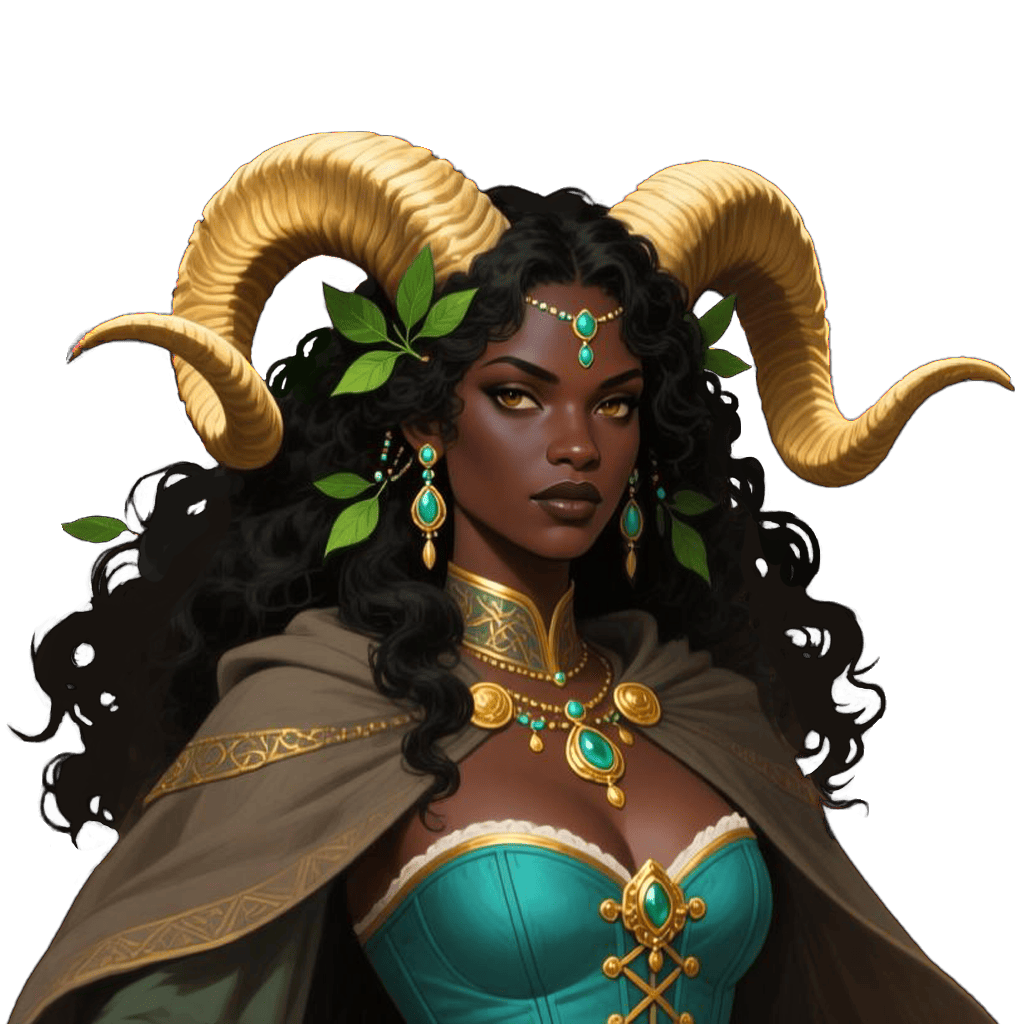
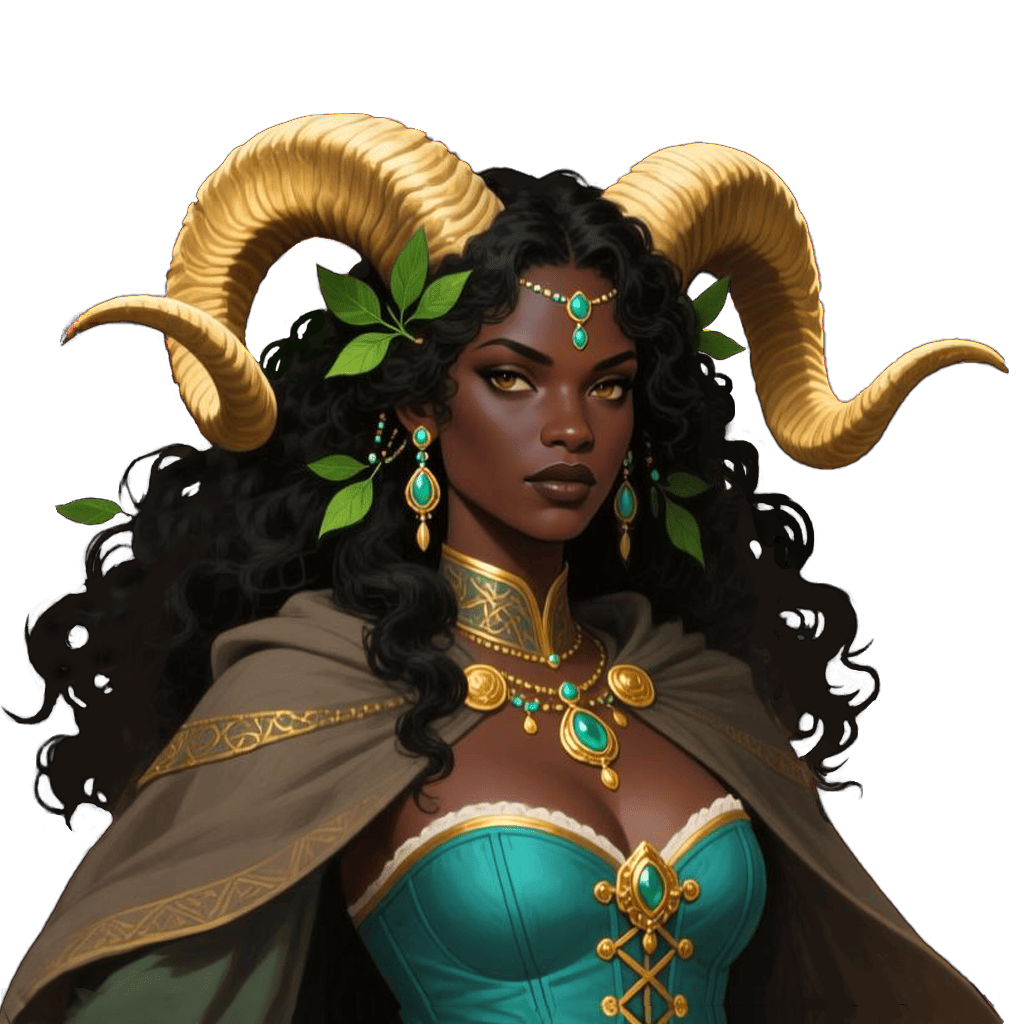
bug fix 28.10.2025

Changed region(s): [[0.0, 0.0938, 1.0, 1.0], [0.7188, 0.5312, 0.75, 0.5625], [0.375, 0.5625, 0.4062, 0.5938]]

diff --git a/public/js/enemy.js b/public/js/enemy.js
@@ -695,9 +695,7 @@ function enemy(_e) {
 						_dir = __right;
 					else if (_diff < -_tol)
 						_dir = __left;
-					if(this.direction !== _dir){
-						this.direction = _dir;
-					}
+					this.setDirection(_dir, 1);
 				}
 			}
 			return;
@@ -842,8 +840,7 @@ function enemy(_e) {
 							else {
 								if(!this.ranged){
 									if(isObjectsVerticallyInSameOrder(this, _enemy)){
-										if(this.direction !== _dir)
-											this.direction = _dir;
+										this.setDirection(_dir, 1);
 										if(this.yPosition > _enemy.yPosition && this.moveDirection !== 'down')
 											this.moveDirection = 'down';
 										else if(this.yPosition < _enemy.yPosition && this.moveDirection !== 'up')
@@ -872,7 +869,8 @@ function enemy(_e) {
 					}
 					else {
 						if (!this.puppetMode && (this.animationFinished || this.animation === 'run' || this.animation === 'idle')) {
-							if ((this.yPosition !== _enm.yPosition) && this.yPosition <= getGroundHeight() && _enm.yPosition <= getGroundHeight() && this.animations.walk) {
+							const _touch = isObjectsInTouch(this, _enm)?.touch;
+							if (!_touch && (this.yPosition !== _enm.yPosition) && this.yPosition <= getGroundHeight() && _enm.yPosition <= getGroundHeight() && this.animations.walk) {
 								if (this.animation == 'run' && this.frame < this.animations.walk.frames.length - 1) {
 									const _oldStart = this.start;
 									const _oldFrame = this.frame;
@@ -947,9 +945,7 @@ function enemy(_e) {
 						this.autoStepXRate = this.autoStepYRate = undefined;
 				}
 				else if (!this.chargimg && this.getCurrentFrame()?.directionChangeEnabled)
-					{
-						this.direction = _dir;
-					}
+					this.setDirection(_dir, 1);
 				else if(this.animationFinished)
 					if (!this.animateAutoAnimation(4,_enemy?.enemy,_isEnemyClose)) {
 						this.upcomingAnimation = undefined;
@@ -966,8 +962,8 @@ function enemy(_e) {
 						_enemy = _newEnemy;
 				}
 				if (!this.still || (this.still && _isEnemyClose) || (this.still && this.ranged && _enemy?.enemy)) {
-					this.turned = true;
-					this.direction = this.moveDirection = _dir;
+					this.setDirection(_dir);
+					this.moveDirection = _dir;
 					
 					this.pickRandomAttack(null, null, 1);
 					if (this.upcomingAnimation) {
@@ -997,6 +993,18 @@ function enemy(_e) {
 		// if(!_enemy?.enemy && !this.isDead() && this.animation !== 'idle')
 		// 	this.animate('idle', 1, null, 2);
 		this.pickRandomAttack(null, null, 1);
+	}
+	this.setDirection = function(_dir, _force) {
+		if(this.enemy && this.lastTurnTime > (_gameTick - 500))
+			return;
+		if(this.direction === _dir)
+			return;
+		if(this.enemy)
+			this.lastTurnTime = _gameTick;
+		this.direction = _dir;
+		if(!_force && this.animation !== 'idle' && this.animation !== 'run' && this.animation !== 'walk')
+			return;
+		this.turned = true;
 	}
 	this.animateAutoAnimation = function (_q, _c, _touch) {
 		if(this.animation === 'roll' && !this.animationFinished)
@@ -1153,8 +1161,8 @@ function enemy(_e) {
 		//this.relatedObjects?.filter(x => x.bind === this.animation && !x.remove)?.forEach(x => x.remove = true);
 		if(this.keyboard) {
 			const _dirName = this.getKeyboardXMove();
-			if(_dirName && _dirName !== this.direction)
-				this.direction = _dirName;
+			if(_dirName)
+				this.setDirection(_dirName, 1);
 		}
 		if(_anima?.after)
 			_anima.after(this);
@@ -1356,11 +1364,9 @@ function enemy(_e) {
 		if(this.fatique < this.maxFatique)
 		{
 			this.fatique = this.maxFatique;
-			if (this.hasFatiqueBar) {
-				const _bar = document.querySelector('#defbar-hb-' + this.key);
-				if (_bar)
-					_bar.style.background = 'linear-gradient(90deg, #9D00FF ' + this.fatique + '%, transparent ' + ((this.fatique / this.maxFatique) * 100) + '%)';
-			}
+			const _bar = document.querySelector('#char-' + this.key + ' .defbar-value');
+			if (_bar)
+				_bar.style.transform = 'scaleX(' + (this.fatique / this.maxFatique) + ')';
 		}
 	}
 	this.getRandom = function(_pos) {
@@ -1386,6 +1392,7 @@ function enemy(_e) {
 					x.gradeLeft = x.grade - 1;
 				if(x.health < x.MAXHP)
 					x.setHealth(x.MAXHP);
+				x.resetFatique();
 			});
 			this.immobilize = this.oldProps.immobilize;
 			delete this.deadDramaStart;
@@ -3240,10 +3247,10 @@ function enemy(_e) {
 
 			if(this.getRangeBetween(_enemy) > _range)
 				continue;
-			if(this.ORIGINLEFT > _enemy.ORIGINLEFT && _enemy.direction !== 'right')
-				_enemy.direction = 'right';
-			else if(this.ORIGINLEFT <= _enemy.ORIGINLEFT && _enemy.direction !== 'left')
-				_enemy.direction = 'left';
+			if(this.ORIGINLEFT > _enemy.ORIGINLEFT && _enemy.direction !== __right)
+				_enemy.direction = __right;
+			else if(this.ORIGINLEFT <= _enemy.ORIGINLEFT && _enemy.direction !== __left)
+				_enemy.direction = __left;
 			if(_enemy.animations.knockbackair){
 				_enemy.randomAirCoords(_enemy.animations.knockbackair);
 				_enemy.animate('knockbackair', 1);
@@ -4648,7 +4655,7 @@ function enemy(_e) {
 								_enemy.direction = __right;
 						}
 						if(!this.invulnerable)
-						_enemy.setAutoTarget(this, null, 9);
+							_enemy.setAutoTarget(this, null, 9);
 					}
 				}
 				if (_enemyHurted && !_enemy.isDead())
@@ -5332,9 +5339,9 @@ function enemy(_e) {
 			return;
 		if(_touch && this.yPosition === this.autoTarget.yPosition)
 			return;
-		if(!this.verticalStep)
+		if(!this.verticalStep || _touch)
 			this.verticalStep = this.calculateYStep();
-		if(this.autoStepYRate < 1)
+		if(!_touch && this.autoStepYRate < 1)
 			this.verticalStep *= this.autoStepYRate;
 		const _moveY = this.solidOne ?? _solidity?.moveY;
 		if ((this.moveDirection === 'up' || (_solidity && _moveY === -1)) && _moveY !== 1){
@@ -6970,7 +6977,7 @@ function enemy(_e) {
 			if ((this.direction === __left && _xMove === __right) ||
 				(this.direction === __right && _xMove === __left))
 				this.start = this.frame = 0;
-			this.direction = _xMove;
+			this.setDirection(_xMove, 1);
 			if(!_includeY)
 				this.moveDirection = _xMove;
 			else
@@ -7225,11 +7232,9 @@ function enemy(_e) {
 		}
 		this.fatique -= _dec;
 		_client.setFatique(this);
-		const _bar = this.fatBar ?? document.querySelector('#char-' + this.key + ' .defbar-value');
+		const _bar = document.querySelector('#char-' + this.key + ' .defbar-value');
 		if(_bar)
 			_bar.style.transform = 'scaleX(' + (this.fatique / this.maxFatique) + ')';
-		if(_bar && !this.fatBar)
-			this.fatBar = _bar;
 		PlaySound({ owner: _attacker, key: this.class + 'block' }, 'block');
 		const _gap = MathRound(this.getCurrentFrame().spriteWidth / 2);
 		if(_r < 1)
@@ -7246,9 +7251,8 @@ function enemy(_e) {
 			this.fatique = this.maxFatique;
 		if (!this.enemy) {
 			try {
-				if(!this.fatBar)
-					this.fatBar = document.querySelector((!this.main ? '#char-' + this.key : '#top-nav') + ' .defbar-value');
-				this.fatBar.style.width = ((this.fatique / this.maxFatique) * 100) + '%';
+				const _bar = document.querySelector('#char-' + this.key + ' .defbar-value');
+				_bar.style.transform = 'scaleX(' + (this.fatique / this.maxFatique) + ')';
 			}
 			catch (ex) { }
 			_client.setFatique(this);

diff --git a/public/js/global.js b/public/js/global.js
@@ -27889,7 +27889,6 @@ const canvasAnimations =  {
 	// 	// Efekt başlatıldığında parametreleri sıfırla
 	// 	if (!_params.startTime || _params.finished) {
 	// 		_params.startTime = now;
-	// 		_params.phase = 1;
 	// 		_params.finished = false;
 	// 		_params.sparkLines = []; // Faz 1’deki “ışık çizgileri”
 	// 		_params.particles = [];  // Faz 3’teki “partiküller”
@@ -28066,15 +28065,14 @@ const canvasAnimations =  {
 		// === INIT ===
 		if (!_params.startTime || _params.finished) {
 			_params.startTime = now;
-			_params.phase = 1;
 			_params.finished = false;
 
 			// Pre-allocate & reuse arrays
-			if (!_params.sparkLines) _params.sparkLines = new Array(12);
+			if (!_params.sparkLines) _params.sparkLines = new Array(8);
 			if (!_params.particles) _params.particles = new Array(25);
 			for (let i = 0; i < _params.sparkLines.length; i++) _params.sparkLines[i] = null;
 			for (let i = 0; i < _params.particles.length; i++) _params.particles[i] = null;
-			episode.enemies?.forEach(x => x.fps = 100);
+			episode.enemies?.forEach(x => x.stop = 1);
 			PlaySound({ key: 'chargepower', volume: 1 });
 		}
 
@@ -28097,44 +28095,60 @@ const canvasAnimations =  {
 
 		// === FAZ 1: Spark toplama ===
 		if (elapsed < dur1) {
-			let sparks = _params.sparkLines;
+			// garanti: sparkLines dizisi her zaman tanımlı olur
+			let sparks = _params.sparkLines = _params.sparkLines || [];
 
-			if (!sparks[0]) {
-				const count = sparks.length;
-				const step = TAU / count;
-				for (let i = 0; i < count; i++) {
-					sparks[i] = {
+			// sabit 8 yön
+			const COUNT = 8;
+			if (sparks.length !== COUNT || !sparks[0]) {
+				sparks.length = 0;
+				const step = TAU / COUNT;
+				for (let i = 0; i < COUNT; i++) {
+					sparks.push({
 						angle: step * i,
-						len: (140 + Math.random() * 40) * S // 🔹 biraz daha uzun
-					};
+						len: (140 + Math.random() * 40) * S,
+						curl: (Math.random() * 0.5 - 0.25),
+						offset: Math.random() * TAU
+					});
 				}
 			}
 
 			const prog = elapsed / dur1;
 			ctx.strokeStyle = 'rgb(125,249,255)';
-			ctx.lineWidth = 2 * S;
-			ctx.globalAlpha = 1 - prog * 0.5; // 🔹 yavaşça silinir
+			ctx.lineWidth = 2.5 * S;
+			ctx.globalAlpha = Math.max(0, 1 - prog * 0.6);
 
-			for (const s of sparks) {
-				const cosA = Math.cos(s.angle);
-				const sinA = Math.sin(s.angle);
-				const r = s.len * (1 - prog);
-				const x1 = c.x + cosA * r;
-				const y1 = c.y + sinA * r;
-				const x2 = x1 + cosA * (10 * S);
-				const y2 = y1 + sinA * (10 * S);
+			for (let i = 0; i < sparks.length; i++) {
+				const s = sparks[i];
+				if (!s) continue;
+
+				const shrink = Math.max(0, 1 - prog * 1.1);
+				const len = s.len * shrink;
+
+				const angleBase = s.angle + Math.sin(prog * 6 + s.offset) * s.curl;
+				const cosA = Math.cos(angleBase);
+				const sinA = Math.sin(angleBase);
+
+				const x1 = c.x + cosA * len;
+				const y1 = c.y + sinA * len;
+				const x2 = c.x + cosA * (len - 20 * S);
+				const y2 = c.y + sinA * (len - 20 * S);
+
+				const midX = (x1 + x2) / 2 + sinA * 10 * S;
+				const midY = (y1 + y2) / 2 - cosA * 10 * S;
+
 				ctx.beginPath();
 				ctx.moveTo(x1, y1);
-				ctx.lineTo(x2, y2);
+				ctx.quadraticCurveTo(midX, midY, x2, y2);
 				ctx.stroke();
 			}
 
-			// 🔹 Parlama biraz daha geç başlasın
-			if (elapsed > dur1 * 0.91) {
-				const t = (elapsed - dur1 * 0.91) / (dur1 * 0.09);
-				const rad = (40 + 60 * t) * S;
+			// merkez parlaması (son kısıma doğru)
+			if (elapsed > dur1 * 0.9) {
+				const t = (elapsed - dur1 * 0.9) / (dur1 * 0.1);
+				const rad = (40 + 80 * t) * S;
 				ctx.globalAlpha = Math.min(1, t * 1.5);
-				ctx.fillStyle = `rgb(255,255,255)`;
+				ctx.fillStyle = 'rgb(255,255,255)';
 				ctx.beginPath();
 				ctx.arc(c.x, c.y, rad, 0, TAU);
 				ctx.fill();
@@ -28149,7 +28163,7 @@ const canvasAnimations =  {
 			if (!_params.sound) {
 				PlaySound({ key: 'ultimate', volume: 1 });
 				_params.sound = true;
-				episode.enemies?.forEach(x => x.fps = 1);
+				episode.enemies?.forEach(x => delete x.stop);
 			}
 			ctx.restore();
 			return;
@@ -28235,6 +28249,8 @@ const canvasAnimations =  {
 		if (elapsed >= total) {
 			_char.canvasObjects = _char.canvasObjects.filter(o => o.key !== 'halo');
 			_params.finished = true;
+			_params.sparkLines = [];
+			_params.particles = [];
 			delete _params.sound;
 		}
 	}

diff --git a/src/js/enemy.js b/src/js/enemy.js
@@ -6909,11 +6909,9 @@ function enemy(_e) {
 			return false;
 		this.fatique -= (fatiqueDecreasement * (_attacker?.getCurrentFrame()?.atk?.rate ?? 1));
 		_client.setFatique(this);
-		const _bar = this.fatBar ?? document.querySelector('#char-' + this.key + ' .defbar-value');
+		const _bar = document.querySelector('#char-' + this.key + ' .defbar-value');
 		if(_bar)
 			_bar.style.transform = 'scaleX(' + (this.fatique / this.maxFatique) + ')';
-		if(_bar && !this.fatBar)
-			this.fatBar = _bar;
 		return true;
 	}
 	this.increaseFatique = function (_val) {
@@ -6922,9 +6920,8 @@ function enemy(_e) {
 			this.fatique = this.maxFatique;
 		if (!this.enemy) {
 			try {
-				if(!this.fatBar)
-					this.fatBar = document.querySelector((!this.main ? '#char-' + this.key : '#top-nav') + ' .defbar-value');
-				this.fatBar.style.width = ((this.fatique / this.maxFatique) * 100) + '%';
+				const _bar = document.querySelector('#char-' + this.key + ' .defbar-value');
+				_bar.style.width = ((this.fatique / this.maxFatique) * 100) + '%';
 			}
 			catch (ex) { }
 			_client.setFatique(this);

diff --git a/public/js/rival.js b/public/js/rival.js
@@ -465,10 +465,11 @@ function createCharacter(_settings) {
 								def: {
 									iframe: true
 								},
-								// objects: [{
-								// 	key: 'lightning',
-								// 	position: 'screen-top'
-								// }]
+								objects: [
+									{
+										key: 'shaketiny', position: 'css'
+									}
+								]
 							},
 							{
 								spriteLeft: 2098,
